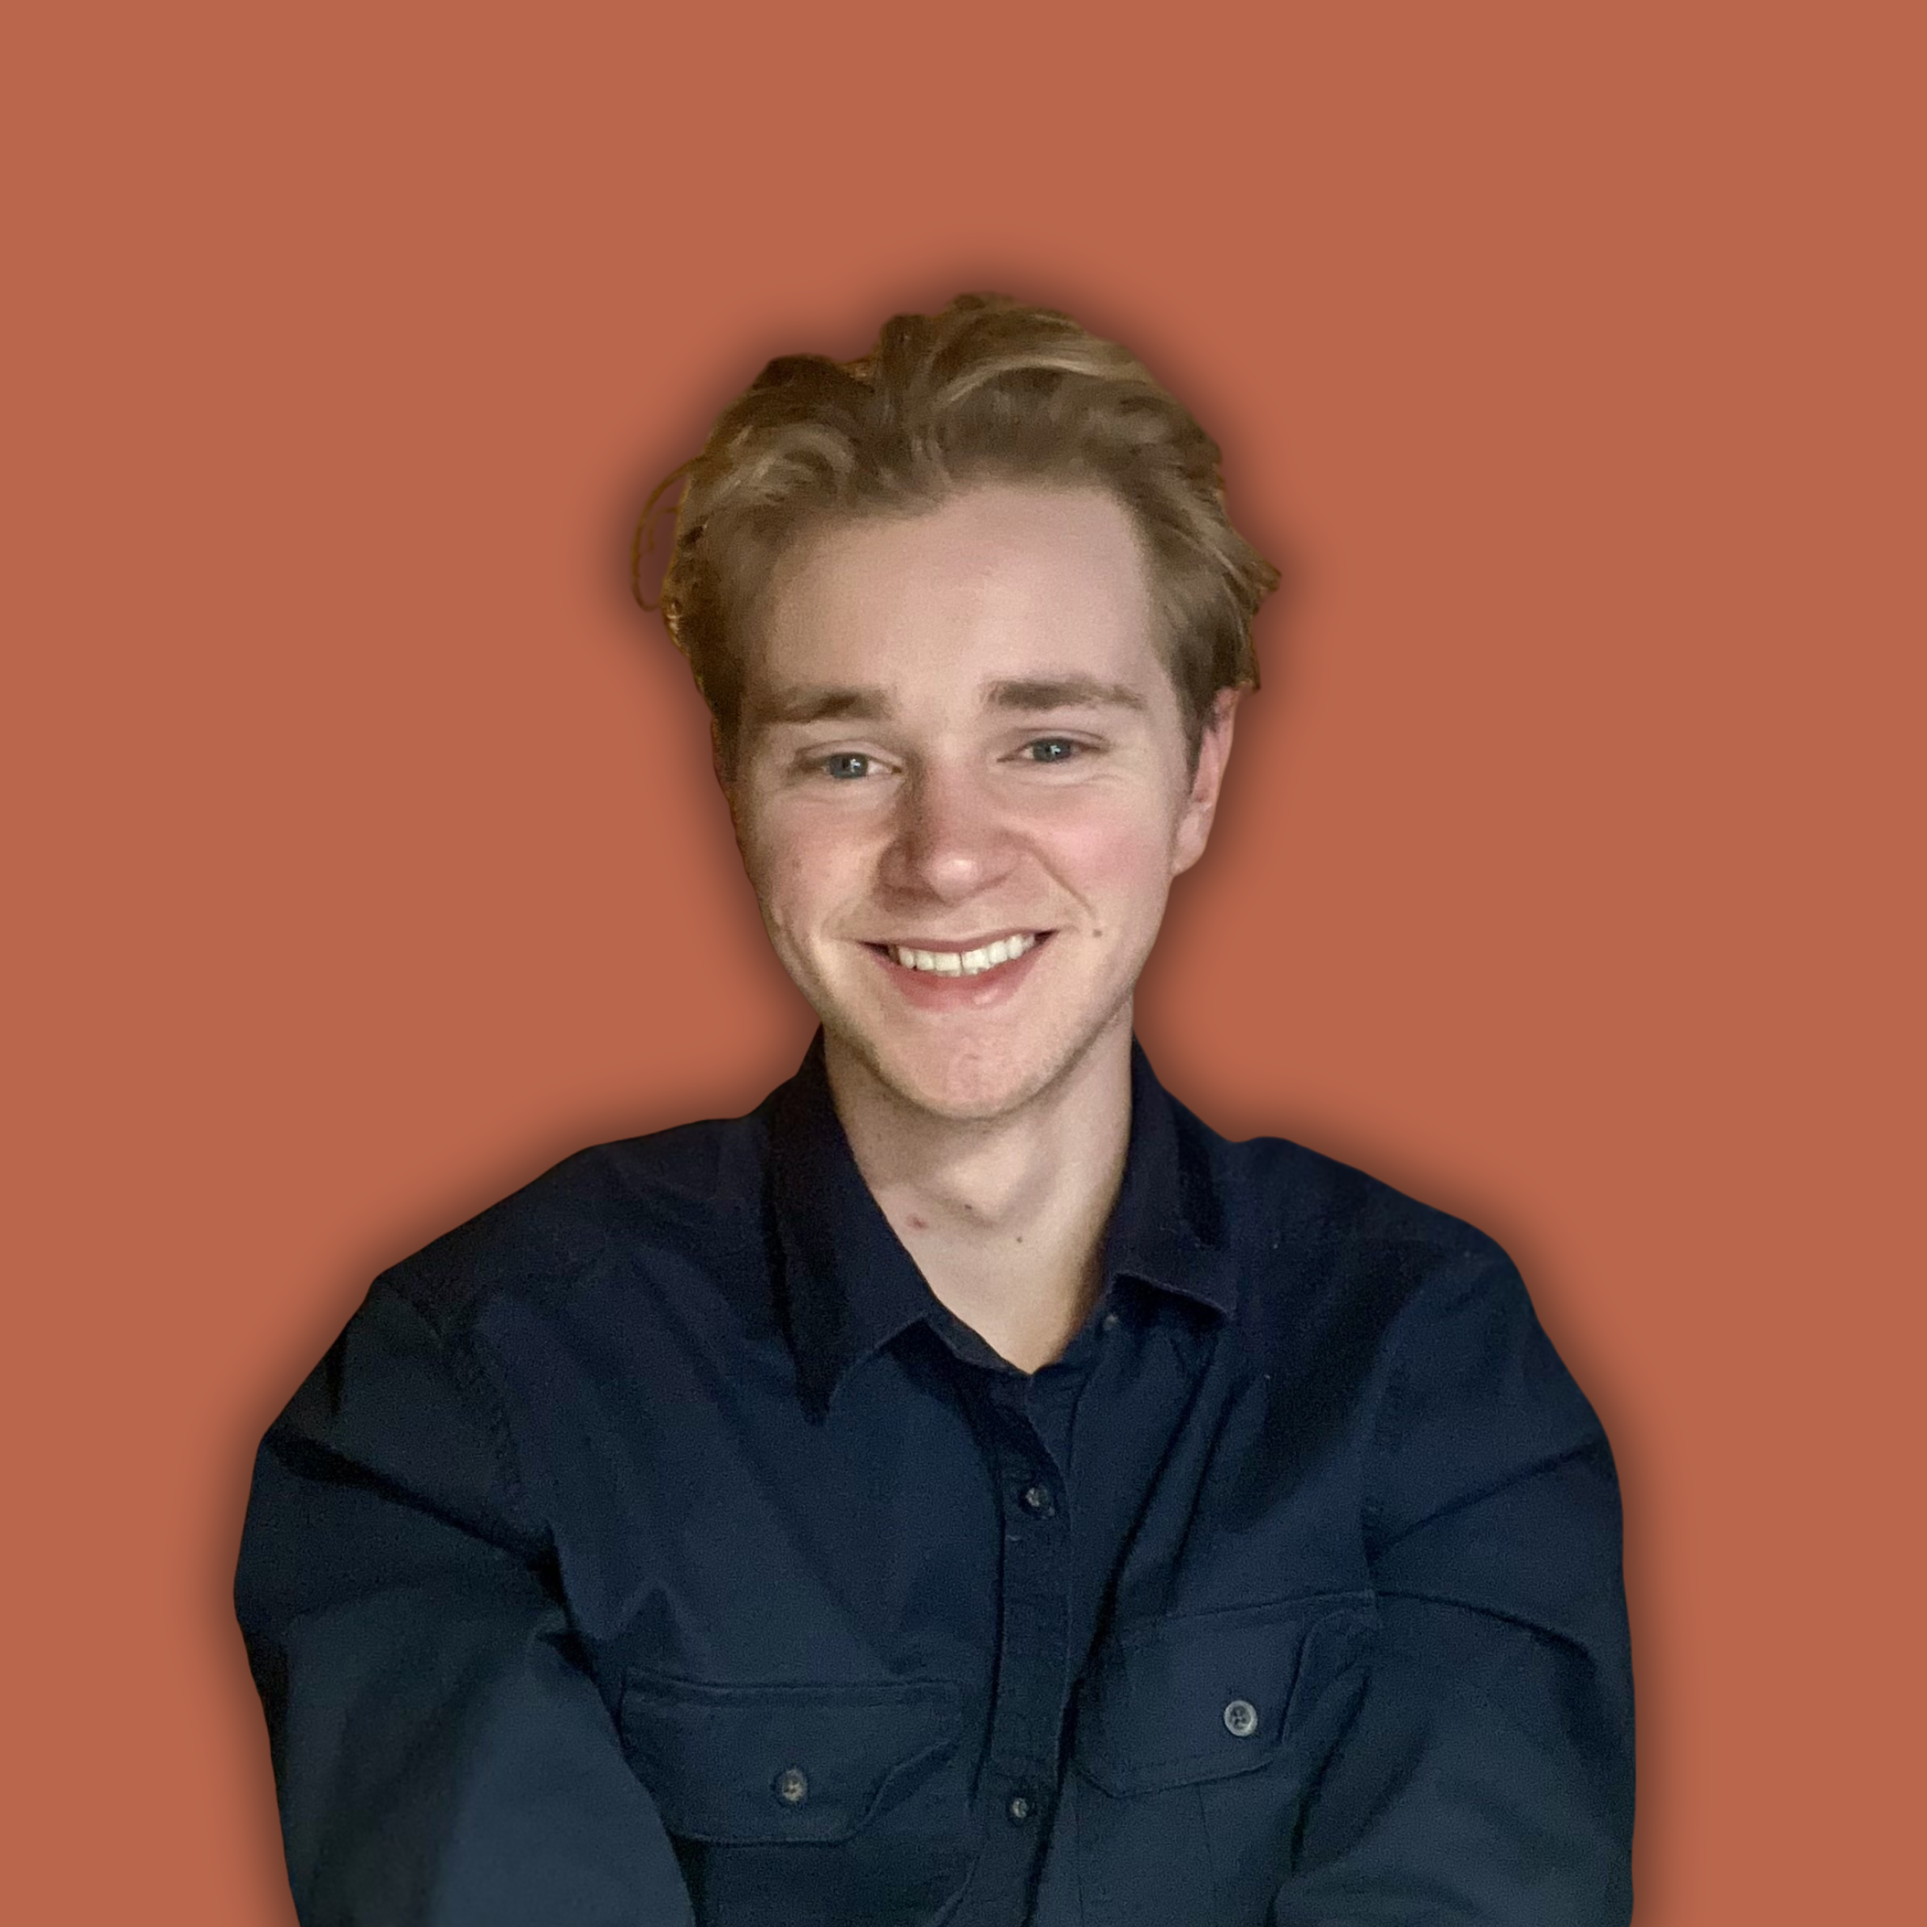
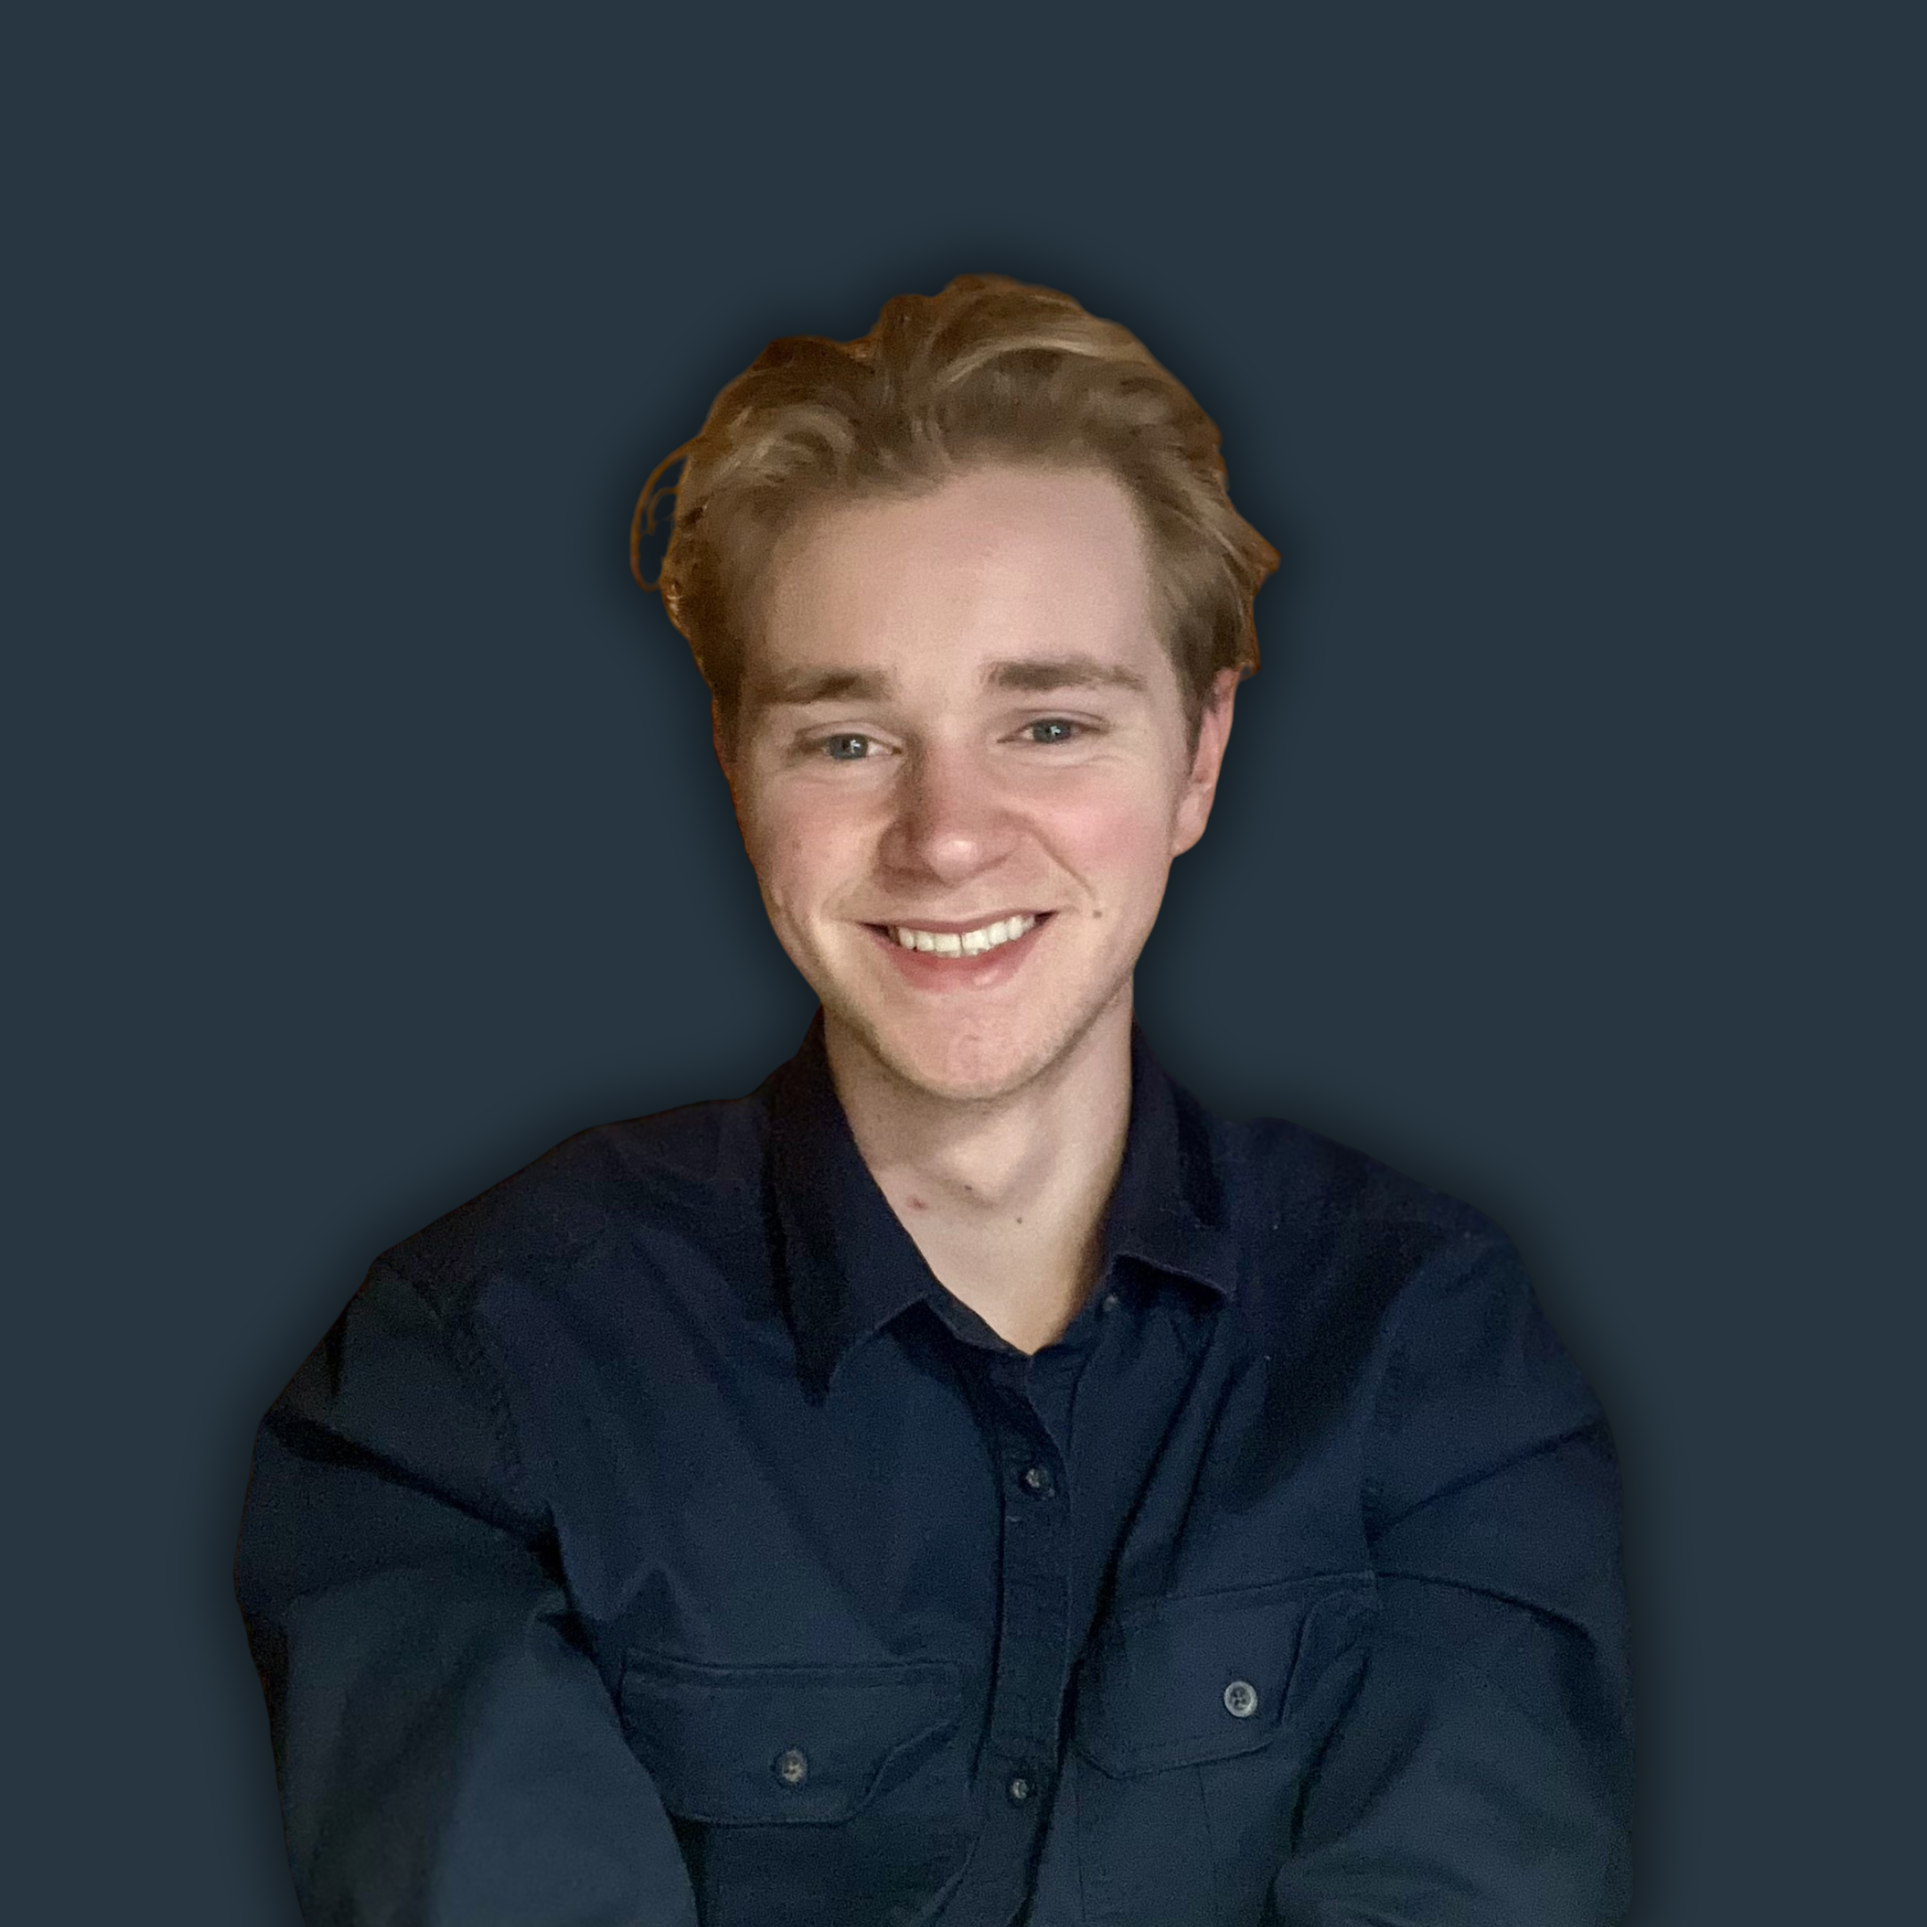
Changed a few images to fit the theme a little bit better.

diff --git a/about.html b/about.html
@@ -57,7 +57,7 @@
     </script>
         <style>
           .header-container {
-            background-image: url(resources/forestFog4.jpg);
+            background-image: url(resources/ontario.jpg);
             background-repeat: no-repeat;
             background-size: cover;
             background-position: center;
